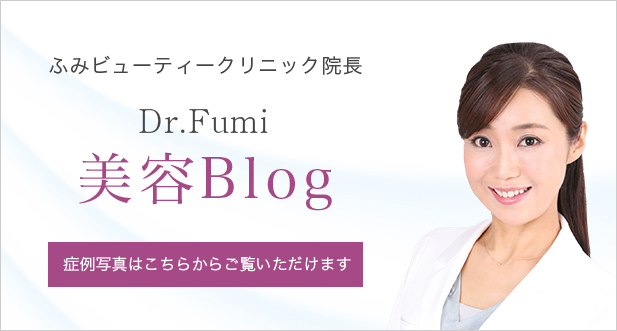
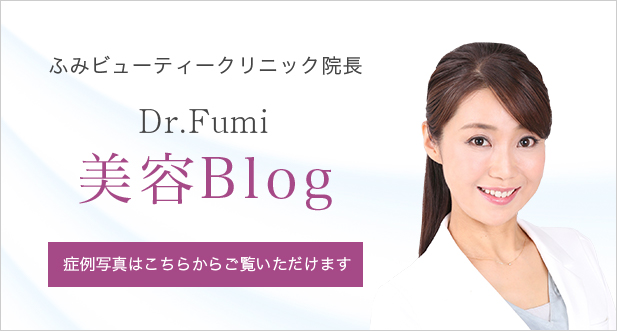
トップ修正

Changed region(s): [[0.6775, 0.1208, 0.9546, 0.997]]

diff --git a/css/scss/style.css b/css/scss/style.css
@@ -1201,15 +1201,16 @@ footer.pages {
             font-family: "ヒラギノ角ゴ Pro W3", "Hiragino Kaku Gothic Pro", "メイリオ", Meiryo, Osaka, "ＭＳ Ｐゴシック", "MS PGothic", "sans-serif";
             margin-bottom: 4px; } }
 .doctor {
-  height: 500px; }
+  height: 540px; }
   .doctor .inner {
-    background: url("../img/top/doctor_thumb.png") no-repeat 90% 100%/300px auto;
-    padding: 60px 0; }
+    background: url("../img/top/doctor_thumb.png") no-repeat 11% 100%/330px auto;
+    position: relative;
+    height: 100%; }
     .doctor .inner .text {
-      width: 45.4%;
-      padding-left: 5%;
-      padding-top: 30px;
-      position: relative; }
+      float: right;
+      width: 56.4%;
+      padding-right: 5%;
+      padding-top: 88px; }
       .doctor .inner .text h2 {
         margin-bottom: 15px; }
       .doctor .inner .text .band {
@@ -1225,20 +1226,20 @@ footer.pages {
         .doctor .inner .text .btn-wrap .btn {
           margin: 0px 13px 0;
           display: inline-block;
-          width: 190px;
-          height: 60px;
-          line-height: 60px; }
-      .doctor .inner .text .doctor-name {
-        position: absolute;
-        bottom: 10px;
-        right: -440px;
-        font-size: 1.6rem;
-        line-height: .78;
-        background: url("../img/top/bg_doctor_name.png") no-repeat 50% 50%/390px;
-        padding: 20%;
-        margin: -20%; }
-        .doctor .inner .text .doctor-name .sm {
-          font-size: .9rem; }
+          width: 240px;
+          height: 68px;
+          line-height: 68px; }
+    .doctor .inner .doctor-name {
+      position: absolute;
+      bottom: 60px;
+      left: 200px;
+      font-size: 1.6rem;
+      line-height: .78;
+      background: url("../img/top/bg_doctor_name.png") no-repeat 50% 50%/390px;
+      padding: 20%;
+      margin: -20%; }
+      .doctor .inner .doctor-name .sm {
+        font-size: .9rem; }
 
 @media (max-width: 767px) {
   .doctor {
@@ -1254,7 +1255,7 @@ footer.pages {
         width: 90%;
         margin: auto;
         padding-left: 0;
-        padding-top: 0px;
+        padding-top: 45px;
         position: static; }
         .doctor .inner .text h2 {
           margin-bottom: 15px; }
@@ -1271,19 +1272,19 @@ footer.pages {
           width: 127px;
           height: 50px;
           line-height: 50px; }
-        .doctor .inner .text .doctor-name {
-          position: absolute;
-          left: 50%;
-          right: auto;
-          transform: translateX(-50%);
-          bottom: 50px;
-          font-size: 1.8rem;
-          line-height: .78;
-          background: url("../img/top/bg_doctor_name.png") no-repeat 50% 50%/180px;
-          padding: 0%;
-          margin: 0%; }
-          .doctor .inner .text .doctor-name .sm {
-            font-size: .9rem; } }
+      .doctor .inner .doctor-name {
+        position: absolute;
+        left: 50%;
+        right: auto;
+        transform: translateX(-50%);
+        bottom: 50px;
+        font-size: 1.8rem;
+        line-height: .78;
+        background: url("../img/top/bg_doctor_name.png") no-repeat 50% 50%/180px;
+        padding: 0%;
+        margin: 0%; }
+        .doctor .inner .doctor-name .sm {
+          font-size: .9rem; } }
 .slides .inner .slide-area {
   position: relative;
   padding: 0 4%;

diff --git a/css/scss/page/_top.scss b/css/scss/page/_top.scss
@@ -459,17 +459,16 @@
 
 
 .doctor {
-   
-    height: 500px;
+    height: 540px;
     .inner {
-         background: url("../img/top/doctor_thumb.png") no-repeat 90% 100%/ 300px auto;
-         padding:  60px 0;
-        
-        .text {
-            width: 45.4%;
-            padding-left: 5%;
-            padding-top: 30px;
+         background: url("../img/top/doctor_thumb.png") no-repeat 11% 100%/ 330px auto;
             position: relative;
+        height: 100%;
+        .text {
+            float: right;
+            width: 56.4%;
+            padding-right: 5%;
+            padding-top: 88px;
             h2 {
                 margin-bottom: 15px;
             }
@@ -491,18 +490,19 @@
                  .btn {
                 margin: 0px 13px 0;
                 display: inline-block;
-                     width: 190px;
-                     height: 60px;
-                     line-height: 60px;
+                     width: 240px;
+                     height: 68px;
+                     line-height: 68px;
             }
                 
                 
             }
-            
-            .doctor-name {
+        }
+        
+         .doctor-name {
                 position: absolute;
-                bottom: 10px;
-                right: -440px;
+                bottom: 60px;
+                left: 200px;
                 font-size: 1.6rem;
                 line-height: .78;
                 background: url("../img/top/bg_doctor_name.png") no-repeat 50% 50%/390px;
@@ -512,9 +512,6 @@
                     font-size: .9rem;
                 }
             }
-            
-           
-        }
     }
 }
 
@@ -533,7 +530,7 @@
             width: 90%;
             margin: auto;
             padding-left: 0;
-            padding-top: 0px;
+            padding-top: 45px;
             position: static;
             h2 {
                 margin-bottom: 15px;
@@ -563,7 +560,11 @@
                 
             }
             
-               .doctor-name {
+               
+            
+        }
+        
+        .doctor-name {
                 position: absolute;
                    left: 50%;
                    right: auto;
@@ -579,8 +580,6 @@
                 }
             }
             
-            
-        }
         
       
     }

diff --git a/css/style.css b/css/style.css
@@ -1633,17 +1633,18 @@ footer.pages .pages-footer-box .left .tel {
   }
 }
 .doctor {
-  height: 500px;
+  height: 540px;
 }
 .doctor .inner {
-  background: url("../img/top/doctor_thumb.png") no-repeat 90% 100%/300px auto;
-  padding: 60px 0;
+  background: url("../img/top/doctor_thumb.png") no-repeat 11% 100%/330px auto;
+  position: relative;
+  height: 100%;
 }
 .doctor .inner .text {
-  width: 45.4%;
-  padding-left: 5%;
-  padding-top: 30px;
-  position: relative;
+  float: right;
+  width: 56.4%;
+  padding-right: 5%;
+  padding-top: 88px;
 }
 .doctor .inner .text h2 {
   margin-bottom: 15px;
@@ -1664,21 +1665,21 @@ footer.pages .pages-footer-box .left .tel {
 .doctor .inner .text .btn-wrap .btn {
   margin: 0px 13px 0;
   display: inline-block;
-  width: 190px;
-  height: 60px;
-  line-height: 60px;
+  width: 240px;
+  height: 68px;
+  line-height: 68px;
 }
-.doctor .inner .text .doctor-name {
+.doctor .inner .doctor-name {
   position: absolute;
-  bottom: 10px;
-  right: -440px;
+  bottom: 60px;
+  left: 200px;
   font-size: 1.6rem;
   line-height: .78;
   background: url("../img/top/bg_doctor_name.png") no-repeat 50% 50%/390px;
   padding: 20%;
   margin: -20%;
 }
-.doctor .inner .text .doctor-name .sm {
+.doctor .inner .doctor-name .sm {
   font-size: .9rem;
 }
 
@@ -1699,7 +1700,7 @@ footer.pages .pages-footer-box .left .tel {
     width: 90%;
     margin: auto;
     padding-left: 0;
-    padding-top: 0px;
+    padding-top: 45px;
     position: static;
   }
   .doctor .inner .text h2 {
@@ -1721,7 +1722,7 @@ footer.pages .pages-footer-box .left .tel {
     height: 50px;
     line-height: 50px;
   }
-  .doctor .inner .text .doctor-name {
+  .doctor .inner .doctor-name {
     position: absolute;
     left: 50%;
     right: auto;
@@ -1734,7 +1735,7 @@ footer.pages .pages-footer-box .left .tel {
     padding: 0%;
     margin: 0%;
   }
-  .doctor .inner .text .doctor-name .sm {
+  .doctor .inner .doctor-name .sm {
     font-size: .9rem;
   }
 }

diff --git a/index.php b/index.php
@@ -124,16 +124,17 @@
   
   <?php endif; ?>
   <section class="doctor mb0 area-bgs" id="bg4">
-    <div class="inner">
+    <div class="inner cf">
       <div class="text">
         <h2 class="cp tc">CONCEPT <span class="sm">ご挨拶</span></h2>
         <div class="band cp tc ls2">beautiful aging</div>
         <p class="cach gd tc f-ryu">美しく年齢を重ね<br>
           輝き続けるために</p>
         <div class="btn-wrap"> <a href="<?php echo home_url( '/' ); ?>doctor" class="btn bg-cg">院長紹介</a> <a href="<?php echo home_url( '/' ); ?>concept" class="btn">当院について</a> </div>
-        <p class="doctor-name cp tc"><span class="sm">fumi beauty clinic院長</span><br>
-          先山 史</p>
+       
       </div>
+         <p class="doctor-name cp tc"><span class="sm">fumi beauty clinic院長</span><br>
+          先山 史</p>
     </div>
   </section>
   <?php if ( wp_is_mobile() ) : ?>
@@ -195,14 +196,13 @@
         <div class="text tc cp box-size">
           <h3>注入治療</h3>
           <span class="sm gd">Infusion therapy</span>
-          <p class="pc gosic tc">カウンセリングで、患者様から、<br>
-            要望・悩みをヒアリングして、<br>
-            多くの製剤や治療法の中から最も適したものを<br>
-            ご提案いたします。</p>
-          <p class="sp gosic tc">カウンセリングで、患者様から、
-            要望・悩みをヒアリングして、
-            多くの製剤や治療法の中から最も適したものを
-            ご提案いたします。</p>
+          <p class="pc gosic tc">当院の主な注入治療部位です。<br>
+ヒアルロン酸やボトックスを「どこに」「どのくらい」<br>
+注入するかで、効果・効能が大きく効果が<br>
+違ってきますが、当院では<br>
+お顔全体のバランスをみて<br>
+自然な若返りができるようご提案しております。</p>
+          <p class="sp gosic tc">当院の主な注入治療部位です。ヒアルロン酸やボトックスを「どこに」「どのくらい」注入するかで、効果・効能が大きく効果が違ってきますが、当院ではお顔全体のバランスをみて自然な若返りができるようご提案しております。</p>
           <a href="<?php echo home_url( '/' ); ?>" class="btn">詳しく見る</a> </div>
         <div class="thumb"> <img src="<?php echo get_template_directory_uri(); ?>/img/top/illust01.jpg" alt="イラスト"> </div>
       </div>
